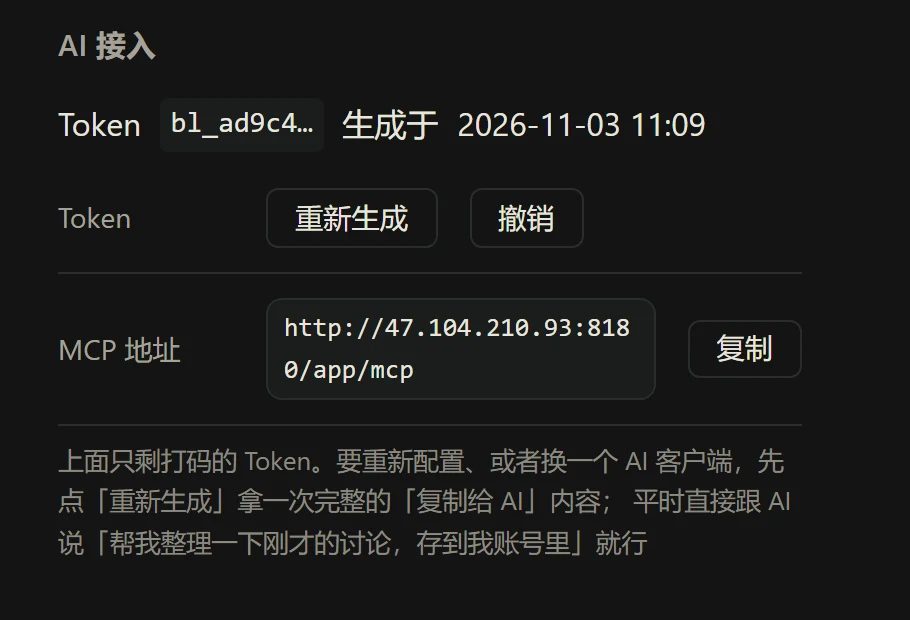
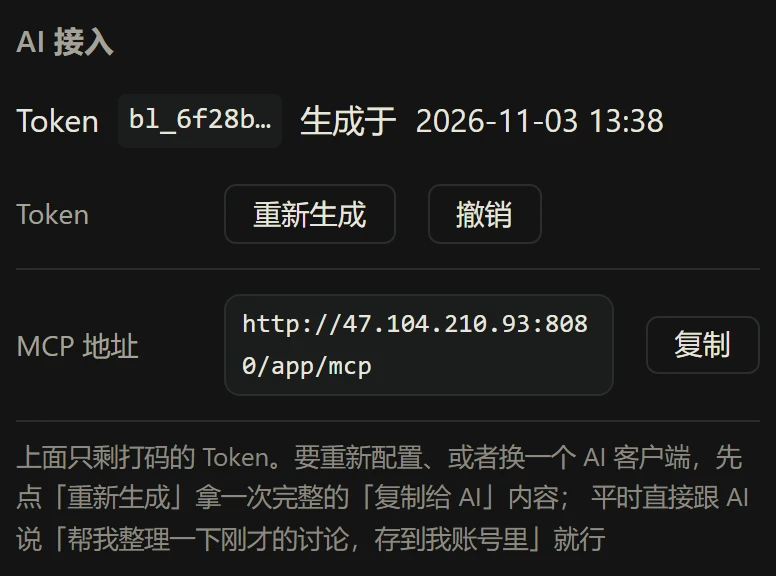
feat(me): MCP 地址改成可配置，页面不再把测试端口发给用户
- AppProperties 加 mcpUrl（notes.mcp-url / 环境变量 MCP_URL）；不配时仍按当前请求的域名端口拼
- MeController 统一走 mcpUrl()，apiBase 跟着同一个基址；「复制给 AI」那段话里的地址随之修正
- 两套 app.env 都写上 MCP_URL=http://47.104.210.93:8080/app/mcp（测试站浏览时也给出正式站地址）
- 用户指南那张 AI 接入截图重拍（地址显示 8080），版本号升到 v=4
- 文档补这条；更新日志补一条（测试库）

diff --git a/src/main/resources/templates/guide.html b/src/main/resources/templates/guide.html
@@ -261,7 +261,7 @@
             </ol>
             <p>存之前它会先查重，再问你这篇给谁看。Token 只显示一次，丢了点「重新生成」。</p>
             <figure>
-                <img th:src="@{/img/guide/guide-ai.webp(v=3)}" alt="我的页面里的 AI 接入" loading="lazy">
+                <img th:src="@{/img/guide/guide-ai.webp(v=4)}" alt="我的页面里的 AI 接入" loading="lazy">
             </figure>
         </section>
     </main>

diff --git a/src/main/java/cn/bytelove/notes/web/MeController.java b/src/main/java/cn/bytelove/notes/web/MeController.java
@@ -1,5 +1,6 @@
 package cn.bytelove.notes.web;
 
+import cn.bytelove.notes.config.AppProperties;
 import cn.bytelove.notes.domain.AppUser;
 import cn.bytelove.notes.domain.ContentKind;
 import cn.bytelove.notes.repo.AppUserRepository;
@@ -34,10 +35,12 @@ public class MeController {
     private final BookmarkService bookmarks;
     private final RatingService ratings;
     private final ApiTokenService tokens;
+    private final AppProperties props;
 
     public MeController(AppUserRepository users, ContentItemRepository items,
                         ContentStarService stars, ViewerService viewers, TrashService trash,
-                        BookmarkService bookmarks, RatingService ratings, ApiTokenService tokens) {
+                        BookmarkService bookmarks, RatingService ratings, ApiTokenService tokens,
+                        AppProperties props) {
         this.users = users;
         this.items = items;
         this.stars = stars;
@@ -46,6 +49,7 @@ public class MeController {
         this.bookmarks = bookmarks;
         this.ratings = ratings;
         this.tokens = tokens;
+        this.props = props;
     }
 
     @GetMapping("/me")
@@ -74,11 +78,11 @@ public class MeController {
             model.addAttribute("tokenHint", t[0]);
             model.addAttribute("tokenCreatedAt", t[1]);
         });
-        // MCP 地址给绝对地址：用户要往别的客户端里贴，带域名的才能直接用
-        String base = ServletUriComponentsBuilder.fromCurrentContextPath().toUriString();
-        String mcpUrl = base + "/mcp";
+        // MCP 地址给绝对地址：用户要往别的客户端里贴，带域名的才能直接用。
+        // 配了 notes.mcp-url 就用它（测试环境指到正式站，不会把 8180 复制出去）
+        String mcpUrl = mcpUrl(request);
         model.addAttribute("mcpUrl", mcpUrl);
-        model.addAttribute("apiBase", base + "/api/ai");
+        model.addAttribute("apiBase", mcpUrl.replaceAll("/mcp$", "") + "/api/ai");
         // 刚生成 token 时，顺手把「复制给 AI 的整段话」也备好，用户不用自己拼
         Object fresh = model.getAttribute("newToken");
         if (fresh instanceof String token) {
@@ -87,6 +91,15 @@ public class MeController {
 
         model.addAttribute("tabActive", "me");
         return "me";
+    }
+
+    /** MCP 地址：配了 notes.mcp-url 用配置的，没配就按当前请求的 scheme://host:port/app 拼。 */
+    private String mcpUrl(HttpServletRequest request) {
+        String configured = props.mcpUrl();
+        if (configured != null && !configured.isBlank()) {
+            return configured.trim();
+        }
+        return ServletUriComponentsBuilder.fromCurrentContextPath().toUriString() + "/mcp";
     }
 
     /** 一段可以直接粘给 AI 的说明：地址、token、配法，以及「先问权限、别自己覆盖」的约定。 */

diff --git a/src/main/java/cn/bytelove/notes/config/AppProperties.java b/src/main/java/cn/bytelove/notes/config/AppProperties.java
@@ -9,6 +9,8 @@ public record AppProperties(
         String viewerUsername,
         String viewerPassword,
         String tabProjectsHref,
-        Boolean registerEnabled
+        Boolean registerEnabled,
+        /** 「我的」页展示 / 复制给 AI 的 MCP 地址；留空就按当前请求的地址拼（测试环境可以指到正式站） */
+        String mcpUrl
 ) {
 }

diff --git a/docs/dev-workflow.md b/docs/dev-workflow.md
@@ -234,6 +234,9 @@ sudo /opt/deploy/sync-db.sh    # 正式库整库覆盖到测试库
   - **两个 MCP 壳**：远程 `POST /app/mcp`（`McpController`，JSON-RPC：initialize / tools/list / tools/call，
     protocolVersion 2025-06-18，直接回 JSON 不用 SSE）；本地 `mcp/notes-mcp.mjs`（零依赖 Node，stdio，
     只读 `NOTES_BASE` + `NOTES_TOKEN`），客户端配置写法在 `mcp/README.md`。
+  - **页面上的 MCP 地址走配置**：`notes.mcp-url`（环境变量 `MCP_URL`），两套 `app.env` 里都写死成
+    `http://47.104.210.93:8080/app/mcp`。不配的话才按当前请求的域名端口拼——测试站会拼出 `:8180`，
+    那条地址复制给 AI 就打到测试库上去了。**备案换成域名之后改这一处就行**（两个 `app.env` + 重启）。
   - **可见性必须由用户决定**：`note_create` 的 `visibility` 是必填参数，传空服务端直接 400，返回里明说
     「先去问用户」。三档含义见 `Visibility` 枚举；`MEMBER` 是「用户把链接发给别人、对方登录后才能看」，
     **不进技术广场**（广场以后只收 `PUBLIC`）。改可见性语义先读 `VisibilityService`——别人能不能看还有
